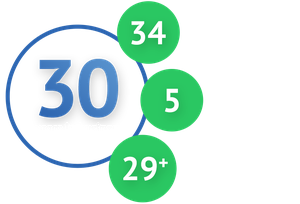
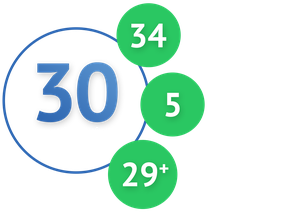
creates jumplinks, new stats image

diff --git a/index.html b/index.html
@@ -17,9 +17,9 @@
                     </div>
                     <nav>
                         <ul>
-                            <li><a href="#">Why AM.net</a></li>
-                            <li><a href="#">Company</a></li>
-                            <li><a href="#">Contact</a></li>
+                            <li><a href="#why-amnet">Why AM.net</a></li>
+                            <li><a href="#company">Company</a></li>
+                            <li><a href="#contact">Contact</a></li>
                         </ul>
                     </nav>
                 </header>
@@ -28,12 +28,13 @@
                     <h1>Don't change your business to suit your tools.</h1>
                     <h1>Get the AMS designed around YOU.</h1>
                     <h4>EMPOWERING CPA SOCIATIES TO SUCCEED FOR 30 YEARS.</h4>
-                    <a class="primary" href="#">Why AM.net</a>
-                    <a class="secondary" href="#">Contact Us</a>
+                    <a class="primary" href="#why-amnet">Why AM.net</a>
+                    <a class="secondary" href="#contact">Contact Us</a>
                 </div>
             </div>
             <div class="cards-container">
                 <div class="slide">
+                    <a name="why-amnet"></a>
                     <h2>Evolving</h2>
                     <div class="wrap wrapper justify-center">
                         <div class="card">
@@ -159,6 +160,7 @@
             </div>
             <div class="detials wrapper justify-center">
                 <div class="stats">
+                    <a name="company"></a>
                     <h2>Company</h2>
 
                     <p class="highlight">Custom Data Systems, Inc. (CDS) was founded in 1985 by Mark Breen to provide custom FoxBase programming and database services to the local Richmond Virginia market. In 1988 the company contracted to convert the Virginia CPA Society’s DEC mini based membership system to a micro-based system, which in those days meant IBM 286’s.</p>
@@ -188,6 +190,7 @@
                 </div>
             </div>
             <div class="contact">
+                <a name="contact"></a>
                 <h2>Contact</h2>
                 <div class="wrapper contact-info justify-center">
                     <div class="contact-block">

diff --git a/styles.css b/styles.css
@@ -279,8 +279,8 @@ nav ul li:last-child {
 }
 
 .stats img {
-	margin-top: 3rem;
-	width: 100%;
+	display: block;
+	margin: 3rem auto;
 }
 
 .stats .highlight::first-line { 
@@ -359,6 +359,10 @@ nav ul li:last-child {
 	margin-right: 1rem;
 }
 
+.contact .contact-info .contact-block li {
+	margin-bottom: 1rem;
+}
+
 /*Footer*/
 
 footer {
@@ -409,8 +413,12 @@ footer p {
 	.hero-content a {
 		display: inline-block;
 		padding: 10px 10px;
-		margin-bottom: 45%;
+		margin-bottom: 5%;
 		width: 10rem;
+	}
+
+	.hero-content a:last-child {
+		margin-bottom: 45%;
 	}
 
 	.cards {
@@ -419,6 +427,7 @@ footer p {
 
 	.card {
 		margin: 0;
+		padding: 2rem;
 		width: 100%;
 	}
 
@@ -437,7 +446,7 @@ footer p {
 
 	.about {
 		display: block;
-		padding: 5rem 4rem;
+		padding: 7rem 4rem;
 		width: 100%;
 	}
 }
